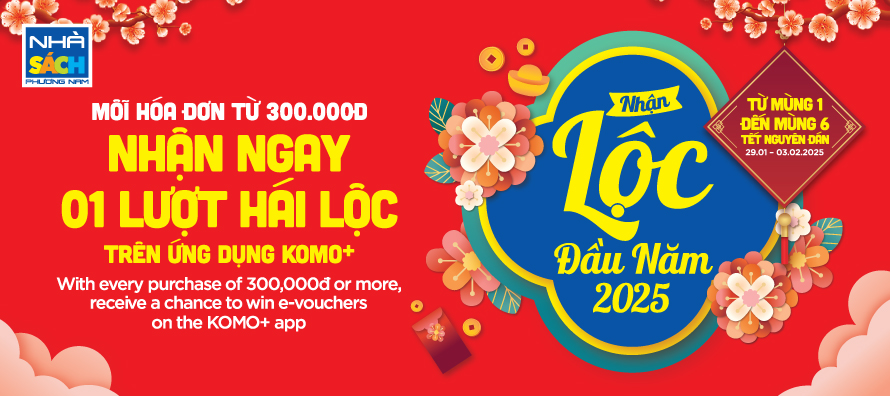
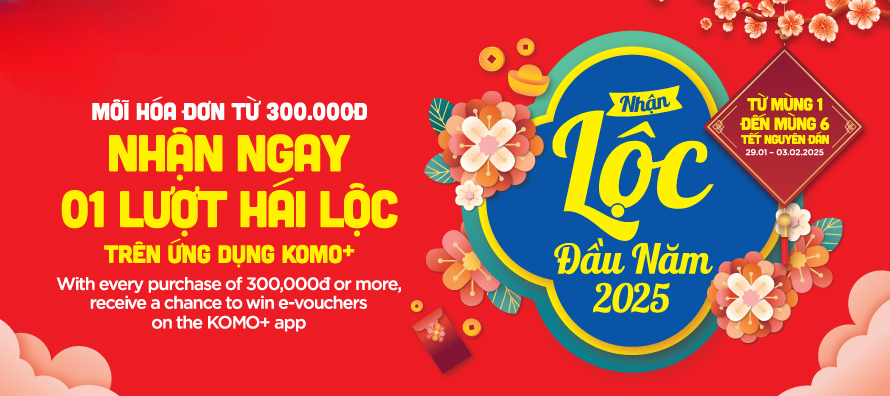
Slideshow

Changed region(s): [[0.0, 0.0, 0.273, 0.2424]]

diff --git a/public/js/slideshow.js b/public/js/slideshow.js
@@ -1,0 +1,47 @@
+document.addEventListener("DOMContentLoaded", () => {
+    const slideContainer = document.querySelector('.slide-container');
+    const slides = document.querySelectorAll('.slide');
+    const positionBtns = document.querySelectorAll('.position-btn');
+    
+    let size = slides.length;
+    let currentSlideIndex = 0;
+
+
+    positionBtns[currentSlideIndex].classList.add('active');
+
+    // Hàm tính vị trí và cập nhật lại
+    function updatePosition() {
+        let position = -currentSlideIndex * 100;
+        slideContainer.style.transform = `translateX(${position}%)`;
+        positionBtns.forEach(btn => btn.classList.remove('active'));
+        positionBtns[currentSlideIndex].classList.toggle('active');
+    }
+
+    // Hàm dùng để di chuyển đến slide kế tiếp
+    function moveToNextSlide() {
+        currentSlideIndex = (currentSlideIndex + 1) % size;
+        updatePosition();
+    }
+
+    // Hàm dùng để di chuyển về slide trước đó
+    function moveToPreviousSlide() {
+        currentSlideIndex = (currentSlideIndex - 1 + size) % size;
+        updatePosition();
+    }
+
+    // Nếu không ấn nút chuyển slide thì mặc định chuyển sang slide kế tiếp sau mỗi 5s
+    setInterval(() => {
+        moveToNextSlide();
+    }, 5000);
+    
+    document.querySelector('.slider__btn--left').addEventListener("click", moveToPreviousSlide);
+    document.querySelector('.slider__btn--right').addEventListener("click", moveToNextSlide);
+
+    // Nếu nút nào được ấn thì sẽ chuyển đến slide đó
+    positionBtns.forEach(btn => {
+        btn.addEventListener("click", () => {
+            currentSlideIndex = parseInt(btn.dataset.id);
+            updatePosition();
+        });
+    });
+});

diff --git a/public/css/style.css b/public/css/style.css
@@ -320,10 +320,69 @@
   width: 65%;
   position: relative;
 }
-.main__container .content .slider button {
+.main__container .content .slider {
+  overflow: hidden;
+}
+.main__container .content .slider .slide-container {
+  display: flex;
+  transition: transform 0.3s ease;
+}
+.main__container .content .slider .slide-container .slide {
+  min-width: 100%;
+}
+.main__container .content .slider .slide-container .slide img {
+  max-width: 100%;
+  max-height: 100%;
+  object-fit: contain;
+  display: block;
+}
+.main__container .content .slider .slider__btn {
+  z-index: 100;
   position: absolute;
   top: 50%;
   transform: translateY(-50%);
+  color: grey;
+  border: 0;
+  border-radius: 50%;
+  width: 2.5rem;
+  height: 2.5rem;
+  text-align: center;
+  transition: all 0.15s;
+  cursor: pointer;
+}
+.main__container .content .slider .slide-position-btn-container {
+  position: absolute;
+  bottom: 2rem;
+  left: 50%;
+  transform: translateX(-50%);
+  display: flex;
+  gap: 1rem;
+}
+.main__container .content .slider .slide-position-btn-container .position-btn {
+  width: 1.7rem;
+  height: 1.7rem;
+  border-radius: 50%;
+  border: 0;
+  background-color:#3498db;
+  cursor: pointer;
+  position: relative;
+}
+.main__container .content .slider .slide-position-btn-container .position-btn.active span {
+  position: absolute;
+  left: 50%;
+  top: 50%;
+  transform: translate(-50%, -50%);
+  display: block;
+  width: 1rem;
+  height: 1rem;
+  border-radius: 50%;
+  background-color: #0056b3;
+}
+.main__container .content .slider .slider__btn:hover {
+  width: 4rem;
+  height: 4rem;
+  font-size: 2rem;
+  color: #333;
 }
 .main__container .content .slider .slider__btn--left {
   left: 1rem;

diff --git a/index.php b/index.php
@@ -32,6 +32,7 @@
     <script type="module" src="public/js/book/bookMain.js" defer></script>
     <script type="module" src="public/js/cart/cartMain.js" defer></script>
     <script type="module" src="public/js/filter/filterMain.js" defer></script>
+    <script type="module" src="public/js/slideshow.js" defer></script>
 
 
     <script type="module" src="public/js/cart/payment.js" defer></script>
@@ -135,8 +136,19 @@
             <section class="content">
                 <div class="slider">
                     <button class="slider__btn slider__btn--left">&#10094;</button>
-                    <img class="slider__image" src="../media/banner/banner_1.png" alt="Banner">
+                    <div class="slide-container">
+                        <div class="slide"><img class="slider__image" src="../media/banner/banner_1.png" alt="Banner"></div>
+                        <div class="slide"><img class="slider__image" src="../media/banner/banner_4.png" alt="Banner"></div>
+                        <div class="slide"><img class="slider__image" src="../media/banner/banner_7.png" alt="Banner"></div>
+                        <div class="slide"><img class="slider__image" src="../media/banner/banner_8.png" alt="Banner"></div>
+                    </div>
                     <button class="slider__btn slider__btn--right">&#10095;</button>
+                    <div class="slide-position-btn-container">
+                        <button class="position-btn" data-id="0"><span></span></button>
+                        <button class="position-btn" data-id="1"><span></span></button>
+                        <button class="position-btn" data-id="2"><span></span></button>
+                        <button class="position-btn" data-id="3"><span></span></button>
+                    </div>
                 </div>
                 <div class="banner d-flex just-content-spbt">
                     <img class="banner__image" src="../media/banner/banner_2.png" alt="">
